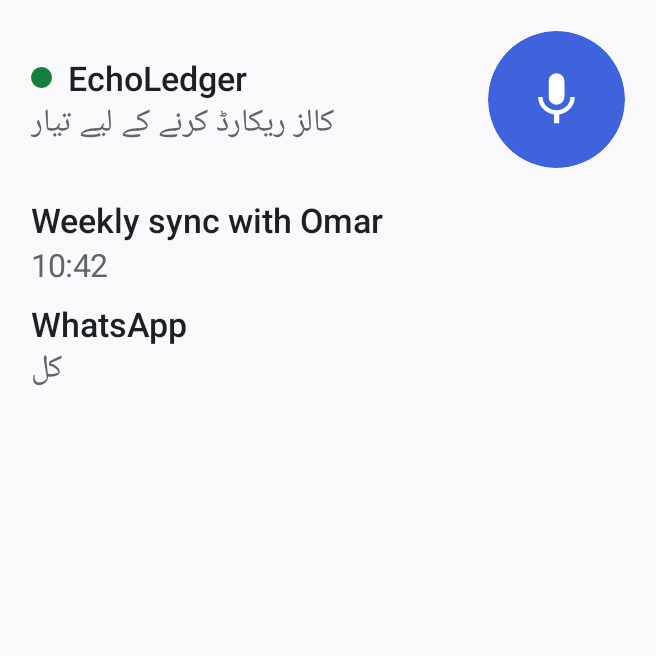
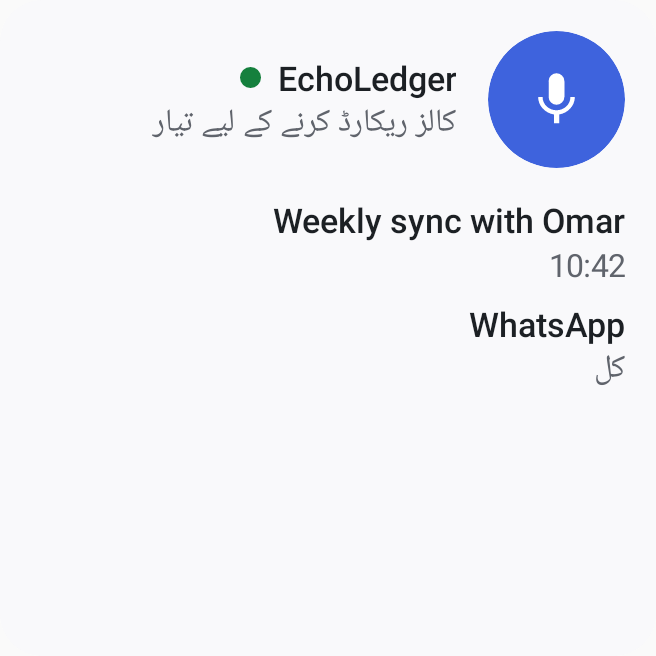
Parity 13 review: the recording notification's buttons grow with their words (at least 48 dp, not on baselines), so Undo discard in Urdu at Largest with a large phone font never clips, shown light and dark; its text scales from the size its layout's styles really give it; the widget lines its text u

diff --git a/mobile/app/src/test/java/com/echoledger/mobile/notify/RecordingNoticeShotsTest.kt b/mobile/app/src/test/java/com/echoledger/mobile/notify/RecordingNoticeShotsTest.kt
@@ -1,0 +1,115 @@
+package com.echoledger.mobile.notify
+
+import android.view.View
+import android.view.ViewGroup
+import android.widget.FrameLayout
+import android.widget.TextView
+import com.echoledger.mobile.R
+import com.echoledger.mobile.testsupport.AppTest
+import com.echoledger.mobile.testsupport.pumpUntil
+import com.github.takahirom.roborazzi.captureRoboImage
+import java.io.File
+import kotlinx.coroutines.runBlocking
+import org.junit.Assert.assertEquals
+import org.junit.Assert.assertNotSame
+import org.junit.Assert.assertSame
+import org.junit.Assert.assertTrue
+import org.junit.Test
+import org.robolectric.RuntimeEnvironment
+import org.robolectric.annotation.Config
+import org.robolectric.annotation.GraphicsMode
+
+/**
+ * The recording notification's own view in Urdu at Settings › Appearance's Largest on a phone with a large font
+ * (docs/v2/audit/parity.csv PH-SET-060 and 061): its buttons grow with their words instead of clipping them, light and
+ * dark (docs/design/screens/phone-notification-recording-*.png); and the app's Urdu words follow a configuration change.
+ */
+@GraphicsMode(GraphicsMode.Mode.NATIVE)
+@Config(sdk = [34], qualifiers = "w411dp-h891dp-420dpi")
+class RecordingNoticeShotsTest : AppTest() {
+    private val out = File(System.getProperty("screenshots.dir") ?: "build/screenshots")
+
+    private fun largestUrdu() {
+        runBlocking { app.graph.settings.update { it.copy(appLanguage = "ur", textSize = "largest") } }
+        pumpUntil("Urdu at Largest") { app.graph.liveSettings.value?.let { it.appLanguage == "ur" && it.textSize == "largest" } == true }
+    }
+
+    /** The expanded recording view as the shade lays it out, the width of a phone's notification. */
+    private fun drawn(): View {
+        val n = Notifications.recording(app, "Recording call with Omar", "Both sides · auto · 2 bookmarks", discarding = true)
+        val activity = buildActivity(androidx.activity.ComponentActivity::class.java).setup().get()
+        val parent = FrameLayout(activity)
+        val view = n.bigContentView.apply(activity, parent)
+        val width = (360 * app.resources.displayMetrics.density).toInt()
+        parent.addView(view, ViewGroup.LayoutParams(ViewGroup.LayoutParams.MATCH_PARENT, ViewGroup.LayoutParams.WRAP_CONTENT))
+        parent.setBackgroundColor(if (night()) 0xFF1F1F1F.toInt() else 0xFFFFFFFF.toInt())
+        // The shade's own margin around a notification's content.
+        val margin = (16 * app.resources.displayMetrics.density).toInt()
+        parent.setPadding(margin, margin / 2, margin, margin / 2)
+        // As tall as the view asks to be (the shade gives an expanded notification the height it needs).
+        parent.measure(
+            View.MeasureSpec.makeMeasureSpec(width, View.MeasureSpec.EXACTLY),
+            View.MeasureSpec.makeMeasureSpec(0, View.MeasureSpec.UNSPECIFIED)
+        )
+        val height = parent.measuredHeight
+        activity.setContentView(parent, ViewGroup.LayoutParams(width, height))
+        parent.measure(
+            View.MeasureSpec.makeMeasureSpec(width, View.MeasureSpec.EXACTLY),
+            View.MeasureSpec.makeMeasureSpec(height, View.MeasureSpec.EXACTLY)
+        )
+        parent.layout(0, 0, width, height)
+        return parent
+    }
+
+    private fun night() = app.resources.configuration.uiMode and android.content.res.Configuration.UI_MODE_NIGHT_MASK ==
+        android.content.res.Configuration.UI_MODE_NIGHT_YES
+
+    /** No button cuts its words: each is at least as tall as its laid-out lines, and every line is on screen. */
+    private fun assertNothingClipped(view: View) {
+        for (id in listOf(R.id.rec_pause, R.id.rec_stop, R.id.rec_captions, R.id.rec_discard)) {
+            val button = view.findViewById<TextView>(id)
+            val needed = button.layout.height + button.totalPaddingTop + button.totalPaddingBottom
+            assertTrue("${button.text}: ${button.height} < $needed", button.height >= needed)
+            assertTrue(button.text.toString(), (button.parent as View).height >= button.height)
+            // And the whole button is inside the notification.
+            val at = IntArray(2).also { button.getLocationInWindow(it) }
+            val top = IntArray(2).also { view.getLocationInWindow(it) }
+            assertTrue("${button.text} ends below the view", at[1] - top[1] + button.height <= view.height)
+        }
+    }
+
+    @Test
+    fun atLargestInUrduWithALargePhoneFontTheButtonsGrowAndNothingClips() {
+        RuntimeEnvironment.setFontScale(1.3f)
+        largestUrdu()
+        for (dark in listOf(false, true)) {
+            RuntimeEnvironment.setQualifiers(if (dark) "+night" else "+notnight")
+            val view = drawn()
+            assertEquals("ہٹانا واپس لیں", view.findViewById<TextView>(R.id.rec_discard).text.toString())
+            assertNothingClipped(view)
+            // Taller than the 48 dp the row used to be fixed at, as its words need.
+            val row = view.findViewById<TextView>(R.id.rec_discard).parent as View
+            assertTrue(row.height >= (48 * app.resources.displayMetrics.density).toInt())
+            view.captureRoboImage(File(out, "phone-notification-recording-ur-largest-${if (dark) "dark" else "light"}.png"))
+        }
+    }
+
+    @Test
+    fun theUrduWordsFollowAConfigurationChange() {
+        val first = AppWords.resources(app, "ur")
+        // The same configuration: the same context, not a new one each time.
+        assertSame(first, AppWords.resources(app, "ur"))
+        // The phone's configuration changes (a font size, the dark theme): a new one, still in Urdu, with the change.
+        RuntimeEnvironment.setFontScale(1.5f)
+        RuntimeEnvironment.setQualifiers("+night")
+        val after = AppWords.resources(app, "ur")
+        assertNotSame(first, after)
+        assertEquals("ur", after.configuration.locales[0]?.language)
+        assertEquals("بند کریں", after.getString(R.string.w2_stop))
+        assertEquals(1.5f, after.configuration.fontScale, 0.01f)
+        assertTrue(
+            after.configuration.uiMode and android.content.res.Configuration.UI_MODE_NIGHT_MASK ==
+                android.content.res.Configuration.UI_MODE_NIGHT_YES
+        )
+    }
+}

diff --git a/mobile/app/src/main/java/com/echoledger/mobile/widget/RecordWidget.kt b/mobile/app/src/main/java/com/echoledger/mobile/widget/RecordWidget.kt
@@ -46,6 +46,7 @@ import androidx.glance.semantics.contentDescription
 import androidx.glance.semantics.semantics
 import androidx.glance.text.FontWeight
 import androidx.glance.text.Text
+import androidx.glance.text.TextAlign
 import androidx.glance.text.TextStyle
 import com.echoledger.mobile.EchoLedgerApp
 import com.echoledger.mobile.MainActivity
@@ -98,6 +99,19 @@ internal fun widgetTextSize(sp: Int, scale: Float): Float = sp * scale
 
 @Composable
 private fun sized(sp: Int) = widgetTextSize(sp, LocalWidgetScale.current).sp
+
+/**
+ * In Urdu the widget's lines line up at the end, where Urdu starts. The launcher lays the widget out in the phone's
+ * direction (Glance gives a widget no direction of its own), so on an English phone this is the right-hand edge.
+ */
+@Composable
+private fun urdu() = LocalWidgetWords.current?.urdu == true
+
+@Composable
+private fun aligned(): TextAlign? = if (urdu()) TextAlign.End else null
+
+@Composable
+private fun wide(): GlanceModifier = if (urdu()) GlanceModifier.fillMaxWidth() else GlanceModifier
 
 /** EchoLedger's light and dark tokens, or the wallpaper's colours (Android 12+) when the app uses them. */
 internal fun widgetColors(dynamic: Boolean): ColorProviders = if (dynamic && Build.VERSION.SDK_INT >= Build.VERSION_CODES.S) {
@@ -198,9 +212,20 @@ private fun RecentRow(row: WidgetRow) {
         Text(
             row.title,
             maxLines = 1,
-            style = TextStyle(color = GlanceTheme.colors.onSurface, fontSize = sized(13), fontWeight = FontWeight.Medium)
+            style = TextStyle(
+                textAlign = aligned(),
+                color = GlanceTheme.colors.onSurface,
+                fontSize = sized(13),
+                fontWeight = FontWeight.Medium
+            ),
+            modifier = wide()
         )
-        Text(row.line, maxLines = 1, style = TextStyle(color = GlanceTheme.colors.onSurfaceVariant, fontSize = sized(12)))
+        Text(
+            row.line,
+            maxLines = 1,
+            style = TextStyle(textAlign = aligned(), color = GlanceTheme.colors.onSurfaceVariant, fontSize = sized(12)),
+            modifier = wide()
+        )
     }
 }
 
@@ -222,12 +247,21 @@ private val READY_NIGHT = androidx.compose.ui.graphics.Color(0xFF4ADE80)
 
 @Composable
 private fun AppName(state: WidgetState) {
-    Row(GlanceModifier.clickable(actionStartActivity<MainActivity>()), verticalAlignment = Alignment.CenterVertically) {
+    Row(
+        wide().clickable(actionStartActivity<MainActivity>()),
+        horizontalAlignment = if (urdu()) Alignment.End else Alignment.Start,
+        verticalAlignment = Alignment.CenterVertically
+    ) {
         ReadyDot(state)
         Text(
             "EchoLedger",
             maxLines = 1,
-            style = TextStyle(color = GlanceTheme.colors.onSurface, fontWeight = FontWeight.Medium, fontSize = sized(13))
+            style = TextStyle(
+                textAlign = aligned(),
+                color = GlanceTheme.colors.onSurface,
+                fontWeight = FontWeight.Medium,
+                fontSize = sized(13)
+            )
         )
     }
 }
@@ -238,15 +272,16 @@ private fun StatusText(state: WidgetState, maxLines: Int) {
         (LocalWidgetWords.current?.statusLine ?: state.statusLine),
         maxLines = maxLines,
         style = TextStyle(
+            textAlign = aligned(),
             color = if (state.recording) GlanceTheme.colors.error else GlanceTheme.colors.onSurfaceVariant,
             fontSize = sized(12),
             fontWeight = if (state.recording) FontWeight.Medium else FontWeight.Normal
         ),
         modifier = when {
-            state.recording -> GlanceModifier
-            state.pendingDecisions > 0 -> GlanceModifier.clickable(openPending())
-            state.notReady -> GlanceModifier.clickable(openReady())
-            else -> GlanceModifier
+            state.recording -> wide()
+            state.pendingDecisions > 0 -> wide().clickable(openPending())
+            state.notReady -> wide().clickable(openReady())
+            else -> wide()
         }
     )
 }
@@ -257,8 +292,13 @@ private fun ReviewText(state: WidgetState) {
         Text(
             it,
             maxLines = 1,
-            style = TextStyle(color = GlanceTheme.colors.primary, fontSize = sized(12), fontWeight = FontWeight.Medium),
-            modifier = GlanceModifier.clickable(openPending())
+            style = TextStyle(
+                textAlign = aligned(),
+                color = GlanceTheme.colors.primary,
+                fontSize = sized(12),
+                fontWeight = FontWeight.Medium
+            ),
+            modifier = wide().clickable(openPending())
         )
     }
 }
@@ -270,11 +310,22 @@ private fun LastRecording(state: WidgetState) {
         Text(
             it,
             maxLines = 1,
-            style = TextStyle(color = GlanceTheme.colors.onSurface, fontSize = sized(13), fontWeight = FontWeight.Medium)
+            style = TextStyle(
+                textAlign = aligned(),
+                color = GlanceTheme.colors.onSurface,
+                fontSize = sized(13),
+                fontWeight = FontWeight.Medium
+            ),
+            modifier = wide()
         )
     }
     state.lastPreview?.let {
-        Text(it, maxLines = 2, style = TextStyle(color = GlanceTheme.colors.onSurfaceVariant, fontSize = sized(12)))
+        Text(
+            it,
+            maxLines = 2,
+            style = TextStyle(textAlign = aligned(), color = GlanceTheme.colors.onSurfaceVariant, fontSize = sized(12)),
+            modifier = wide()
+        )
     }
 }
 

diff --git a/mobile/app/src/test/java/com/echoledger/mobile/widget/WidgetLookShotsTest.kt b/mobile/app/src/test/java/com/echoledger/mobile/widget/WidgetLookShotsTest.kt
@@ -71,21 +71,35 @@ class WidgetLookShotsTest : AppTest() {
 
     private fun sizeOf(view: View, words: String): Float = texts(view).first { it.text.toString() == words }.textSize
 
-    @Test
-    fun atLargestTheWidgetsTextIsLargerByTheSameShareAsTheApps() {
-        val phone = draw("en", "system")
-        val largest = draw("en", "largest")
-        for (words in listOf("Ready to record calls", "Weekly sync with Omar", "EchoLedger")) {
-            assertEquals(words, sizeOf(phone, words) * 1.3f, sizeOf(largest, words), 0.6f)
-        }
-        largest.captureRoboImage(File(out, "phone-widget-largest-light.png"))
+    /** Draws and shoots the widget in the light and the dark theme (the phone's, as the launcher shows it). */
+    private fun shoot(language: String, textSize: String, name: String): View {
+        org.robolectric.RuntimeEnvironment.setQualifiers("+night")
+        draw(language, textSize).captureRoboImage(File(out, "phone-widget-$name-dark.png"))
+        org.robolectric.RuntimeEnvironment.setQualifiers("+notnight")
+        return draw(language, textSize).also { it.captureRoboImage(File(out, "phone-widget-$name-light.png")) }
     }
 
     @Test
-    fun inUrduTheWidgetSpeaksUrdu() {
-        val urdu = draw("ur", "system")
-        val all = texts(urdu).map { it.text.toString() }
-        assertTrue(all.toString(), "کالز ریکارڈ کرنے کے لیے تیار" in all)
-        urdu.captureRoboImage(File(out, "phone-widget-ur-light.png"))
+    fun atLargestTheWidgetsTextIsLargerByTheSameShareAsTheApps() {
+        val phone = draw("en", "system")
+        val largest = shoot("en", "largest", "largest")
+        for (words in listOf("Ready to record calls", "Weekly sync with Omar", "EchoLedger")) {
+            assertEquals(words, sizeOf(phone, words) * 1.3f, sizeOf(largest, words), 0.6f)
+        }
+    }
+
+    @Test
+    fun inUrduTheWidgetSpeaksUrduLinedUpAtTheEnd() {
+        val urdu = shoot("ur", "system", "ur")
+        val all = texts(urdu)
+        val status = all.first { it.text.toString() == "کالز ریکارڈ کرنے کے لیے تیار" }
+        // Lined up at the end (the launcher lays the widget out left to right on an English phone: the right edge).
+        val end = status.gravity and android.view.Gravity.RELATIVE_HORIZONTAL_GRAVITY_MASK
+        assertTrue("gravity ${status.gravity}", end == android.view.Gravity.END || end == android.view.Gravity.RIGHT)
+        assertTrue(status.width > status.layout.getLineWidth(0))
+        // In English, at the start as before.
+        val english = texts(draw("en", "system")).first { it.text.toString() == "Ready to record calls" }
+        val start = english.gravity and android.view.Gravity.RELATIVE_HORIZONTAL_GRAVITY_MASK
+        assertTrue("gravity ${english.gravity}", start != android.view.Gravity.END && start != android.view.Gravity.RIGHT)
     }
 }

diff --git a/mobile/app/src/main/java/com/echoledger/mobile/notify/Notifications.kt b/mobile/app/src/main/java/com/echoledger/mobile/notify/Notifications.kt
@@ -245,7 +245,13 @@ object Notifications {
         // This view is the app's own layout: its text follows Settings › Appearance's text size (Android's own templates
         // can't; they keep the phone's).
         recordingTextSize(context)?.let { scale ->
-            RECORDING_TEXT_SP.forEach { (id, sp) -> buttons.setTextViewTextSize(id, android.util.TypedValue.COMPLEX_UNIT_SP, sp * scale) }
+            recordingTextPx(context).forEach { (id, px) ->
+                buttons.setTextViewTextSize(
+                    id,
+                    android.util.TypedValue.COMPLEX_UNIT_PX,
+                    px * scale
+                )
+            }
         }
         return NotificationCompat.Builder(context, CHANNEL_RECORDING)
             .setSmallIcon(R.drawable.ic_stat_rec)
@@ -285,18 +291,26 @@ object Notifications {
             .build()
     }
 
+    /** The recording view's texts, each scaled by the person's text size. */
+    internal val RECORDING_TEXT_IDS =
+        listOf(R.id.rec_title, R.id.rec_detail, R.id.rec_pause, R.id.rec_stop, R.id.rec_captions, R.id.rec_discard)
+
+    private class TextPx(val config: android.content.res.Configuration, val px: Map<Int, Float>)
+
+    @Volatile private var textPx: TextPx? = null
+
     /**
-     * The recording view's text sizes at the phone's size (the Material notification styles its layout uses: title
-     * 14 sp, the rest 12 sp), each multiplied by the person's text size.
+     * The recording view's text sizes in px as its layout's styles give them on this phone (the notification styles,
+     * at the phone's own font size): the layout inflated once per configuration and read, never assumed.
      */
-    internal val RECORDING_TEXT_SP = listOf(
-        R.id.rec_title to 14f,
-        R.id.rec_detail to 12f,
-        R.id.rec_pause to 12f,
-        R.id.rec_stop to 12f,
-        R.id.rec_captions to 12f,
-        R.id.rec_discard to 12f
-    )
+    internal fun recordingTextPx(context: Context): Map<Int, Float> {
+        val config = context.resources.configuration
+        textPx?.takeIf { it.config == config }?.let { return it.px }
+        val view = android.view.LayoutInflater.from(context).inflate(R.layout.notification_recording_actions, null)
+        val px = RECORDING_TEXT_IDS.associateWith { view.findViewById<android.widget.TextView>(it).textSize }
+        textPx = TextPx(android.content.res.Configuration(config), px)
+        return px
+    }
 
     /** Settings › Appearance's text size for the recording view; null at the phone's own size (the layout's styles stay). */
     internal fun recordingTextSize(context: Context): Float? {

diff --git a/mobile/app/src/test/java/com/echoledger/mobile/notify/AppLanguageNoticesTest.kt b/mobile/app/src/test/java/com/echoledger/mobile/notify/AppLanguageNoticesTest.kt
@@ -171,7 +171,7 @@ class AppLanguageNoticesTest : AppTest() {
     private fun recordingTextSizes(): Map<Int, Float> {
         val n = Notifications.recording(app, "Recording call", "Microphone")
         val view = n.bigContentView.apply(app, android.widget.FrameLayout(app))
-        return Notifications.RECORDING_TEXT_SP.associate { (id, _) -> id to view.findViewById<android.widget.TextView>(id).textSize }
+        return Notifications.RECORDING_TEXT_IDS.associateWith { view.findViewById<android.widget.TextView>(it).textSize }
     }
 
     @Test
@@ -181,9 +181,10 @@ class AppLanguageNoticesTest : AppTest() {
         runBlocking { app.graph.settings.update { it.copy(textSize = "largest") } }
         pumpUntil("largest") { app.graph.liveSettings.value?.textSize == "largest" }
         val largest = recordingTextSizes()
-        val sp = app.resources.displayMetrics.scaledDensity
-        Notifications.RECORDING_TEXT_SP.forEach { (id, size) -> assertEquals(size * 1.3f * sp, largest.getValue(id), 0.6f) }
+        // Each at 1.3 times the size its layout's style gives it on this phone (read, not assumed).
         assertTrue(phone.values.all { it > 0f })
+        assertEquals(Notifications.recordingTextPx(app), phone)
+        Notifications.RECORDING_TEXT_IDS.forEach { id -> assertEquals(phone.getValue(id) * 1.3f, largest.getValue(id), 0.6f) }
         // Its four buttons in the app language, Captions and Stop too.
         language("ur")
         val view = Notifications.recording(app, "Recording call", "Microphone").bigContentView.apply(app, android.widget.FrameLayout(app))

diff --git a/mobile/app/src/main/java/com/echoledger/mobile/widget/WidgetState.kt b/mobile/app/src/main/java/com/echoledger/mobile/widget/WidgetState.kt
@@ -62,6 +62,9 @@ data class WidgetState(
 
 /** The widget's words in [res]'s language (the app language): the same lines as [WidgetState]'s English ones. */
 class WidgetWords(private val res: android.content.res.Resources, private val state: WidgetState) {
+    /** The words are Urdu: the widget lines its text up at the end. */
+    val urdu: Boolean get() = res.configuration.locales[0]?.language == "ur"
+
     val statusLine: String
         get() = with(state) {
             when {
